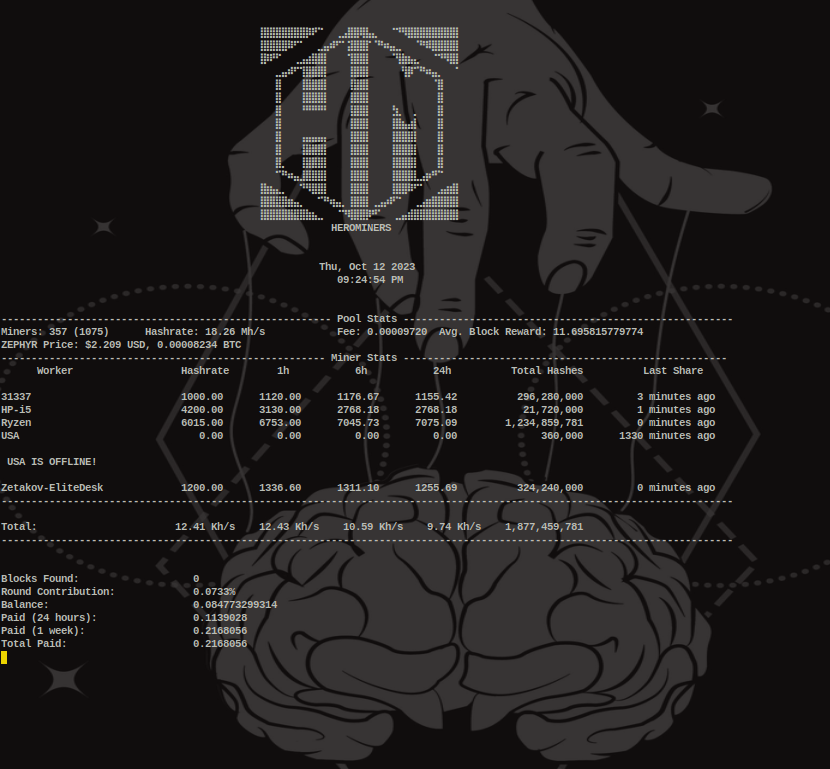
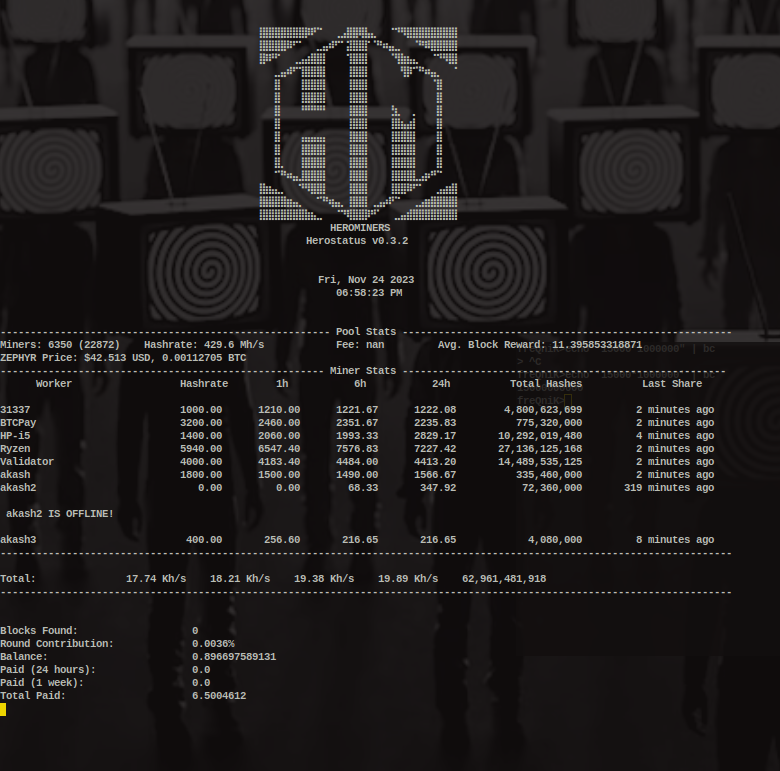
Fix formatting on total hashes

diff --git a/src/herostatus/herostatus.py b/src/herostatus/herostatus.py
@@ -29,10 +29,10 @@ alarms = [path.join(SOUNDDIR,'burglaralarm.wav'),
 
 satoshi = 100000000000
 
-VERSION = 'Herostatus v0.3.0'
+VERSION = 'Herostatus v0.3.2'
 
 def herominers_logo():
-    with open('logo.uni') as logoFile:
+    with open(path.join(BASEDIR,'logo.uni')) as logoFile:
         logo = logoFile.readlines()
     for line in logo:
         print(42*space,line, end='')
@@ -63,7 +63,11 @@ def startup_procedure():
         
         for s in sounds:
             shutil.copy(s,SOUNDDIR)
-
+            
+            
+    if not path.exists(path.join(BASEDIR, 'logi.uni')):
+        shutil.copy(pkg_resources.resource_filename(__name__, 'logo.uni'), BASEDIR)
+        
     if path.exists(path.join(BASEDIR, "config.json")):
         with open(path.join(BASEDIR,"config.json"), "r") as configFile:
             configJSON = configFile.read()
@@ -159,14 +163,29 @@ def main():
         print(52*space, now_date, "\n",54*space,now_time)
         print("\n")
         try: 
-            req = requests.get(api_url)
-            req_live_stats = requests.get(live_stats_url)
-            json = req.json()
-            live_stats_json = req_live_stats.json()
+            try: 
+                req = requests.get(api_url)
+            except: 
+                print("COULD NOT REQUEST FROM API")
+                sleep(wait_time)
+                continue
+            try:
+                req_live_stats = requests.get(live_stats_url)
+            except: 
+                print("COULD NOT REQUEST FROM API - LIVE STATS")
+                sleep(wait_time)
+                continue
+            try:
+                json = req.json()
+                live_stats_json = req_live_stats.json()
+            except:
+                print("COULD NOT GET JSON")
+                sleep(wait_time)
+                continue
+            
             
             satoshi = float(live_stats_json['config']['coinUnits'])
             fee = format(float(float(live_stats_json['config']['transferFee']) / satoshi),'.8f')
-            
             no_of_miners = live_stats_json['pool']['miners']
             no_of_workers = live_stats_json['pool']['workers']
             pool_hashrate = live_stats_json['pool']['hashrate']
@@ -175,7 +194,6 @@ def main():
             avgBlockReward = float(live_stats_json['pool']['averageReward']) / satoshi
             cryptoPriceUSD = round(float(live_stats_json['pool']['price']['usd']),3)
             cryptoPriceBTC =format(float(live_stats_json['pool']['price']['btc']),'.8f')
-            
             lnphr = len(str(pool_hashrate))
             
             pool_hashrate = ComputeHashrate(lnphr, pool_hashrate)
@@ -237,7 +255,7 @@ def main():
                                                                                                      w['hashrate_1h'],
                                                                                                      w['hashrate_6h'],
                                                                                                      w['hashrate_24h'],
-                                                                                                     w['hashes'],
+                                                                                                     int(w['hashes']),
                                                                                                      str(lastshareminutes) + " minutes ago"))
                                                   
                         if w['hashrate_1h'] == 0:
@@ -280,18 +298,7 @@ def main():
             
             num_of_spaces = maxlen - len('Total:') + 10
             print(dash*122)
-            '''
-            print("\nTotal: %s %5.2f %s %5.2f %s %5.2f %s %5.2f %s %10s" %(num_of_spaces*space,
-                                                                           round(float(cur_hr),2),
-                                                                           4*space,
-                                                                           round(float(onehr_hr),2),
-                                                                           4*space,
-                                                                           round(float(sixhr_hr),2),
-                                                                           4*space,
-                                                                           round(float(dayhr_hr),2),
-                                                                           4*space,
-                                                                           "{:,}".format(int(total_hashes))))
-            '''
+        
             print("\nTotal: %s %s %s %s %s %s %s %s %s %10s" %(num_of_spaces*space,
                                                                            cur_hr,
                                                                            2*space,

diff --git a/setup.py b/setup.py
@@ -8,7 +8,7 @@ with open('README.md', encoding="utf-8") as f:
 
 setup(
     name='Herostatus',
-    version='0.3.0',
+    version='0.3.2',
     description='Herominers console status and stats display for cryptonight miners',
     long_description=readme,
     long_description_content_type="text/markdown",
